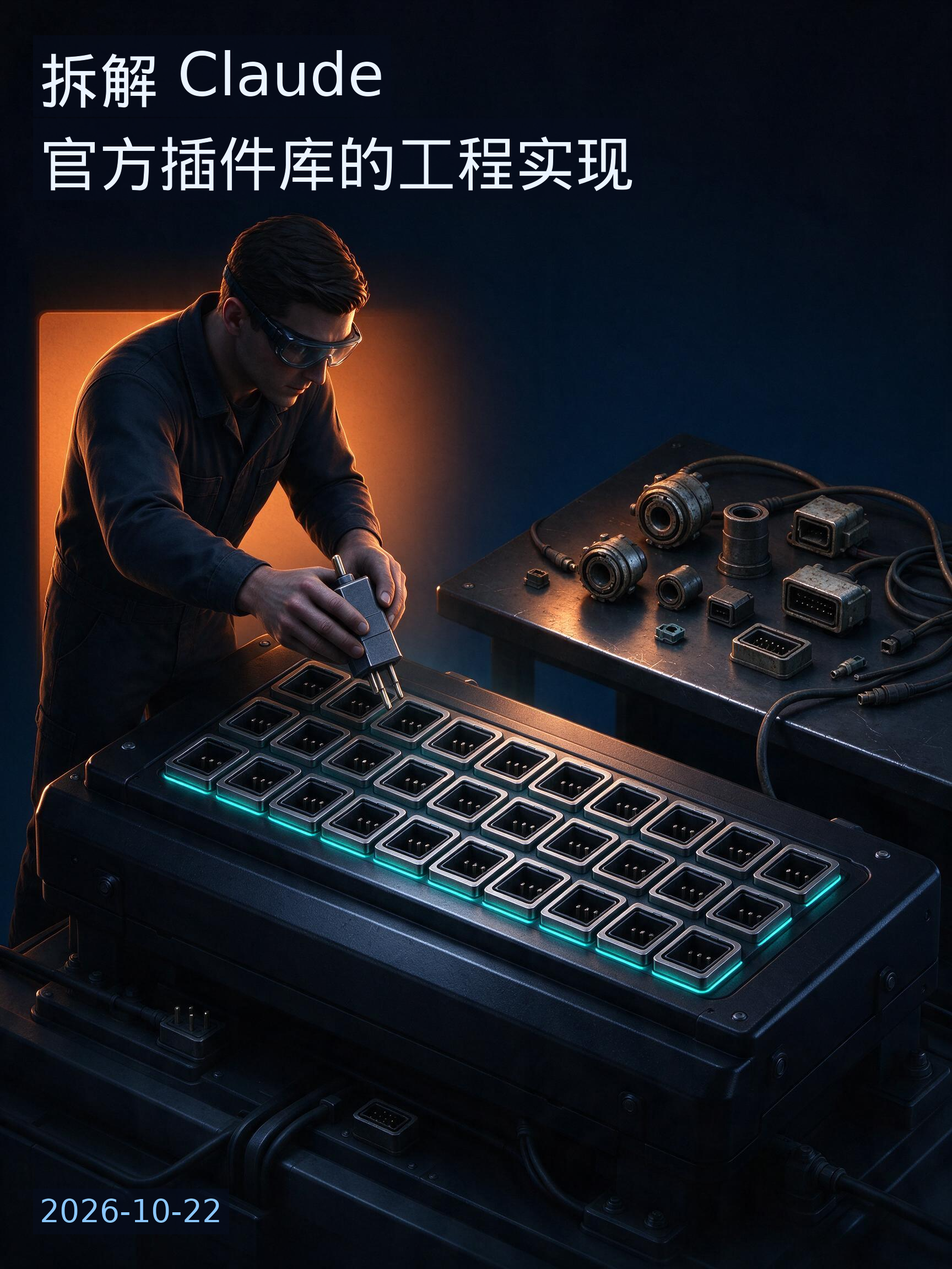
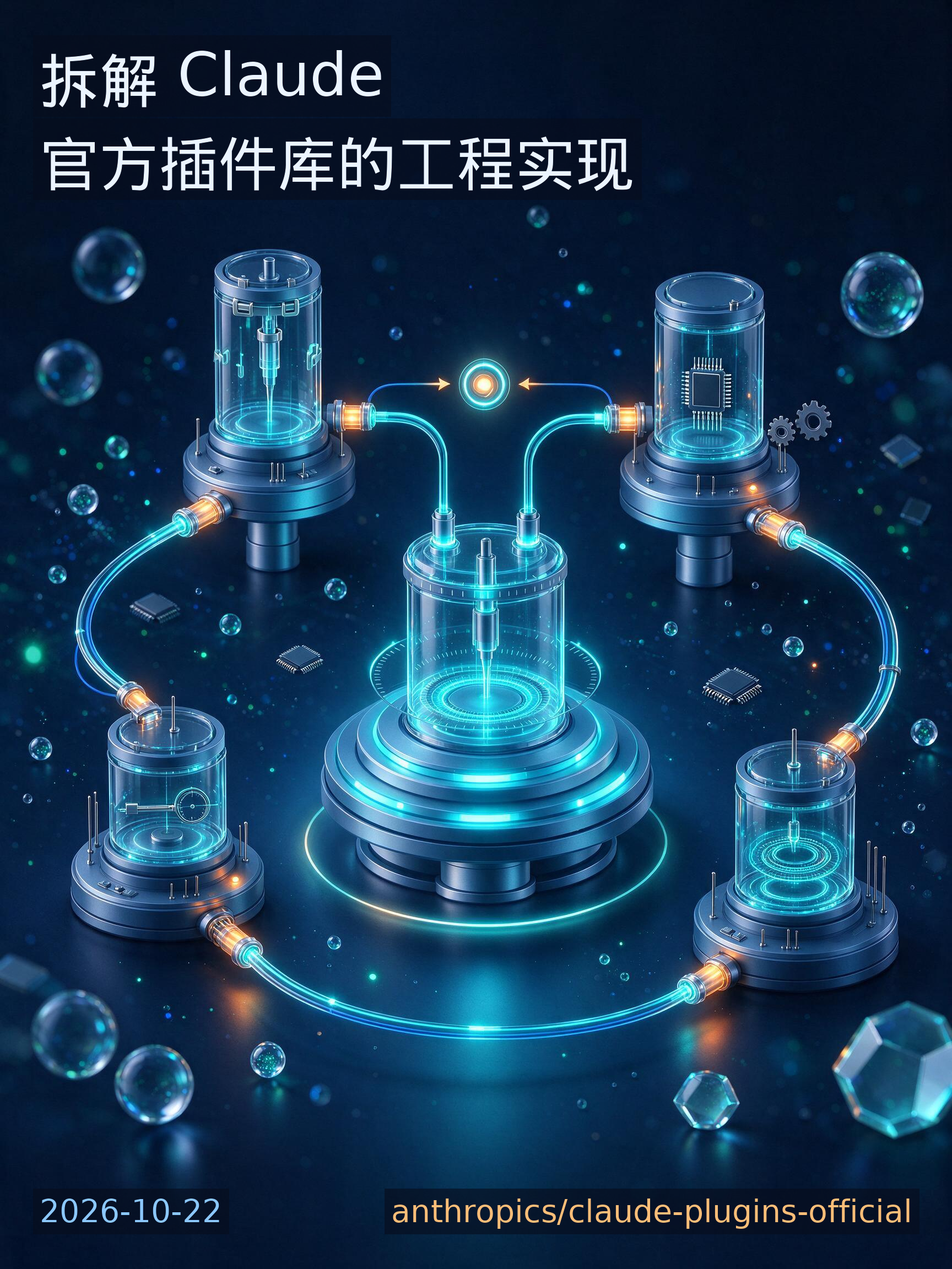
Cover v4: microscopic process-flow style + repo name overlay

diff --git a/scripts/gen_cover.py b/scripts/gen_cover.py
@@ -47,16 +47,18 @@ IMAGE_MODEL = os.environ.get("IMAGE_MODEL") or "doubao-seedream-5-0-flash-260915
 # Seedream 3.0 的合法档位，放后面兜底；都失败再试 "2K" 令牌写法。
 SIZE_CANDIDATES = [os.environ.get("IMAGE_SIZE") or "1728x2304", "864x1152", "2K"]
 
-# 固定风格基底：单一清晰主体的等距 3D 物件隐喻。
-# 教训（2026-10-22 首版被用户否了）：不要"线框图/终端/界面截图"类主题——
-# 禁了文字之后界面图只剩一堆没人认识的抽象框框；必须让模型画"一个具体的东西"。
+# 固定风格基底：微观世界 × 流程画风的科学插画。
+# 教训：v1 抽象线框被否（看不懂）；v2 物件隐喻被否（脱离实际用途）；
+# v3 写实场景被否（不够科学感）。用户要的是"显微镜下的精密系统 +
+# 流程节点连线"这种期刊插图式的画面。
 STYLE_BASE = (
-    "竖版构图，深海军蓝到近黑渐变背景，画面中央只有一个清晰、巨大、"
-    "一眼可辨的立体主体，等距 3D 渲染风格，柔和体积光，青色与暖橙色边缘光，"
-    "细节精致有质感，电影级打光，周围大量留白。"
-    "绝对不要画电脑屏幕、终端、代码、窗口或任何软件界面，"
-    "把主题转化成一个具体的、现实中的物件隐喻。"
-    "no text, no watermark, no letters, no words. 主题："
+    "竖版构图，科学期刊封面级插画，微观世界风格：深邃藏蓝背景上呈现一个"
+    "被放大观测的精密微观系统，像显微镜下的生态——发光的核心装置位于画面"
+    "中央，若干功能模块环绕四周，模块之间用发光的流程管线与节点依次连接，"
+    "带有清晰的流程方向感与层次结构；青色荧光为主色调，暖橙色点缀关键节点，"
+    "等距视角，扁平化科技美学结合细腻立体质感，柔和辉光，细节丰富干净，"
+    "四周留白。绝对不要写实的办公室/人物场景，不要照片风。"
+    "no text, no watermark, no letters, no words. 微观系统的主题："
 )
 
 MAX_BYTES = 5 * 1024 * 1024  # 超过就降尺寸重存，Pages 上别挂太大的图
@@ -70,8 +72,9 @@ def info(msg: str) -> None:
     print(f"[INFO] {msg}", file=sys.stderr)
 
 
-def parse_xhs_md(path: Path) -> tuple[str, str, str] | None:
-    """从 xhs 草稿里抽 (H1 标题, 首图建议, 开篇段落)。抽不到首图建议返回 None。"""
+def parse_xhs_md(path: Path) -> tuple[str, str, str, str] | None:
+    """从 xhs 草稿里抽 (H1 标题, 首图建议, 开篇段落, 仓库名)。
+    抽不到首图建议返回 None；仓库名来自「> 项目：」行，抽不到为空串。"""
     if not path.exists():
         warn(f"草稿不存在：{path}")
         return None
@@ -83,29 +86,36 @@ def parse_xhs_md(path: Path) -> tuple[str, str, str] | None:
     idea = m.group(1).strip()
     h1 = re.search(r"^#\s+(.+)$", text, re.MULTILINE)
     title = h1.group(1).strip() if h1 else ""
+    repo = ""
+    m_repo = re.search(r"^>\s*项目[：:]\s*https?://github\.com/([\w.-]+/[\w.-]+)",
+                       text, re.MULTILINE)
+    if m_repo:
+        repo = m_repo.group(1).rstrip("/")
     intro = ""
     for para in re.split(r"\n\s*\n", text):
         para = para.strip()
         if para and not para.startswith(("#", ">", "---")):
             intro = para[:400]
             break
-    return title, idea, intro
+    return title, idea, intro, repo
 
 
 def scene_idea(title: str, idea: str, intro: str) -> str:
-    """把「首图建议」改写成真实使用场景（一次廉价 LLM 调用），失败则用原句。
+    """把「首图建议」改写成微观系统流程画面（一次廉价 LLM 调用），失败用原句。
 
     教训（2026-10-22）：直接拿 cover_idea 画出来的是抽象概念（玻璃舱插件），
-    和工具实际用途无关。封面应该画「这个工具被人真实使用的画面」。
+    和工具实际用途无关。封面应该画「这个工具的工作流程」的微观世界画面。
     """
     sys.path.insert(0, str(ROOT / "scripts"))
     try:
         import discover  # llm_chat；未配置 key 时返回 ""
         out = discover.llm_chat(
-            "你在给一篇工具深扒文章设计封面图。请把下面的项目介绍转化成一句"
-            "「图像生成用的场景描述」（中文，≤60字）：画出这个工具被人真实使用的"
-            "画面，主体是一个具体的人或物在动手用它解决它专治的问题；"
-            "不要屏幕/终端/窗口等界面，不要抽象符号和隐喻堆砌。"
+            "你在给一篇工具深扒文章设计封面图，画风是「微观世界里的精密系统 + "
+            "流程节点连线」的科学插画。请把下面的项目介绍转化成一句图像生成用的"
+            "场景描述（中文，≤60字）：把这个工具的工作过程想象成一个微观系统——"
+            "它处理的对象是什么、经过哪几个关键环节，每个环节画成一个发光模块，"
+            "模块之间用管线连接成流程。只描述画面里有什么元素和它们怎么连，"
+            "不要解释概念，不要抽象口号。"
             f"\n\n文章标题：{title}\n项目介绍：{intro}\n原首图建议：{idea}"
             "\n\n只输出场景描述一句，不要其他内容。",
             max_tokens=150, json_mode=False,
@@ -205,8 +215,8 @@ def find_latin_font() -> str | None:
     return None
 
 
-def overlay_text(png: bytes, title: str, date: str) -> bytes:
-    """PIL 叠字：标题左上角、日期左下角，垫半透明色块保证可读。
+def overlay_text(png: bytes, title: str, date: str, repo: str = "") -> bytes:
+    """PIL 叠字：标题左上角、日期左下角、仓库名右下角，垫半透明色块保证可读。
     中英文混排：ASCII 走西文字体，其余走 CJK 字体（有的 CJK 字体不含
     Latin 字形，单字体渲染会出豆腐块）。找不到 CJK 字体就只出底图。"""
     from PIL import Image, ImageDraw, ImageFont  # 延迟导入：没装 PIL 时底图还能出
@@ -267,6 +277,13 @@ def overlay_text(png: bytes, title: str, date: str) -> bytes:
     d.rectangle([pad - 12, dy - 8, pad + dw + 12, dy + dh + 8],
                 fill=(6, 12, 28, 160))
     draw_mixed(pad, dy, date, f_lat_d, f_cjk_d, (140, 200, 255, 255))
+    # 仓库名（owner/repo，纯 ASCII）做成右下角的小标签，让人知道画的是谁
+    if repo:
+        rw = textlen(repo, f_lat_d, f_cjk_d)
+        rx = w - pad - rw
+        d.rectangle([rx - 12, dy - 8, rx + rw + 12, dy + dh + 8],
+                    fill=(6, 12, 28, 160))
+        draw_mixed(rx, dy, repo, f_lat_d, f_cjk_d, (255, 190, 120, 255))
     out_img = Image.alpha_composite(img.convert("RGBA"), layer).convert("RGB")
     # 控大小：超 5MB 就缩到 864 宽重存
     out = io.BytesIO()
@@ -296,7 +313,7 @@ def main() -> int:
     parsed = parse_xhs_md(PUBLISH / f"{args.date}-xhs.md")
     if not parsed:
         return 0  # 抽不到首图建议不是错误，WARN 过了直接退
-    title, idea, intro = parsed
+    title, idea, intro, repo = parsed
     scene = scene_idea(title, idea, intro)
     if scene != idea:
         info(f"场景改写：{scene}")
@@ -306,7 +323,7 @@ def main() -> int:
         return 0  # 生图失败只 WARN，不出文件也不炸流水线
 
     try:
-        png = overlay_text(png, title, args.date)
+        png = overlay_text(png, title, args.date, repo)
     except ImportError:
         warn("没装 PIL（pip install pillow），跳过叠字只出底图")
     except Exception as e:  # 叠字是锦上添花，任何异常都不该炸流水线
